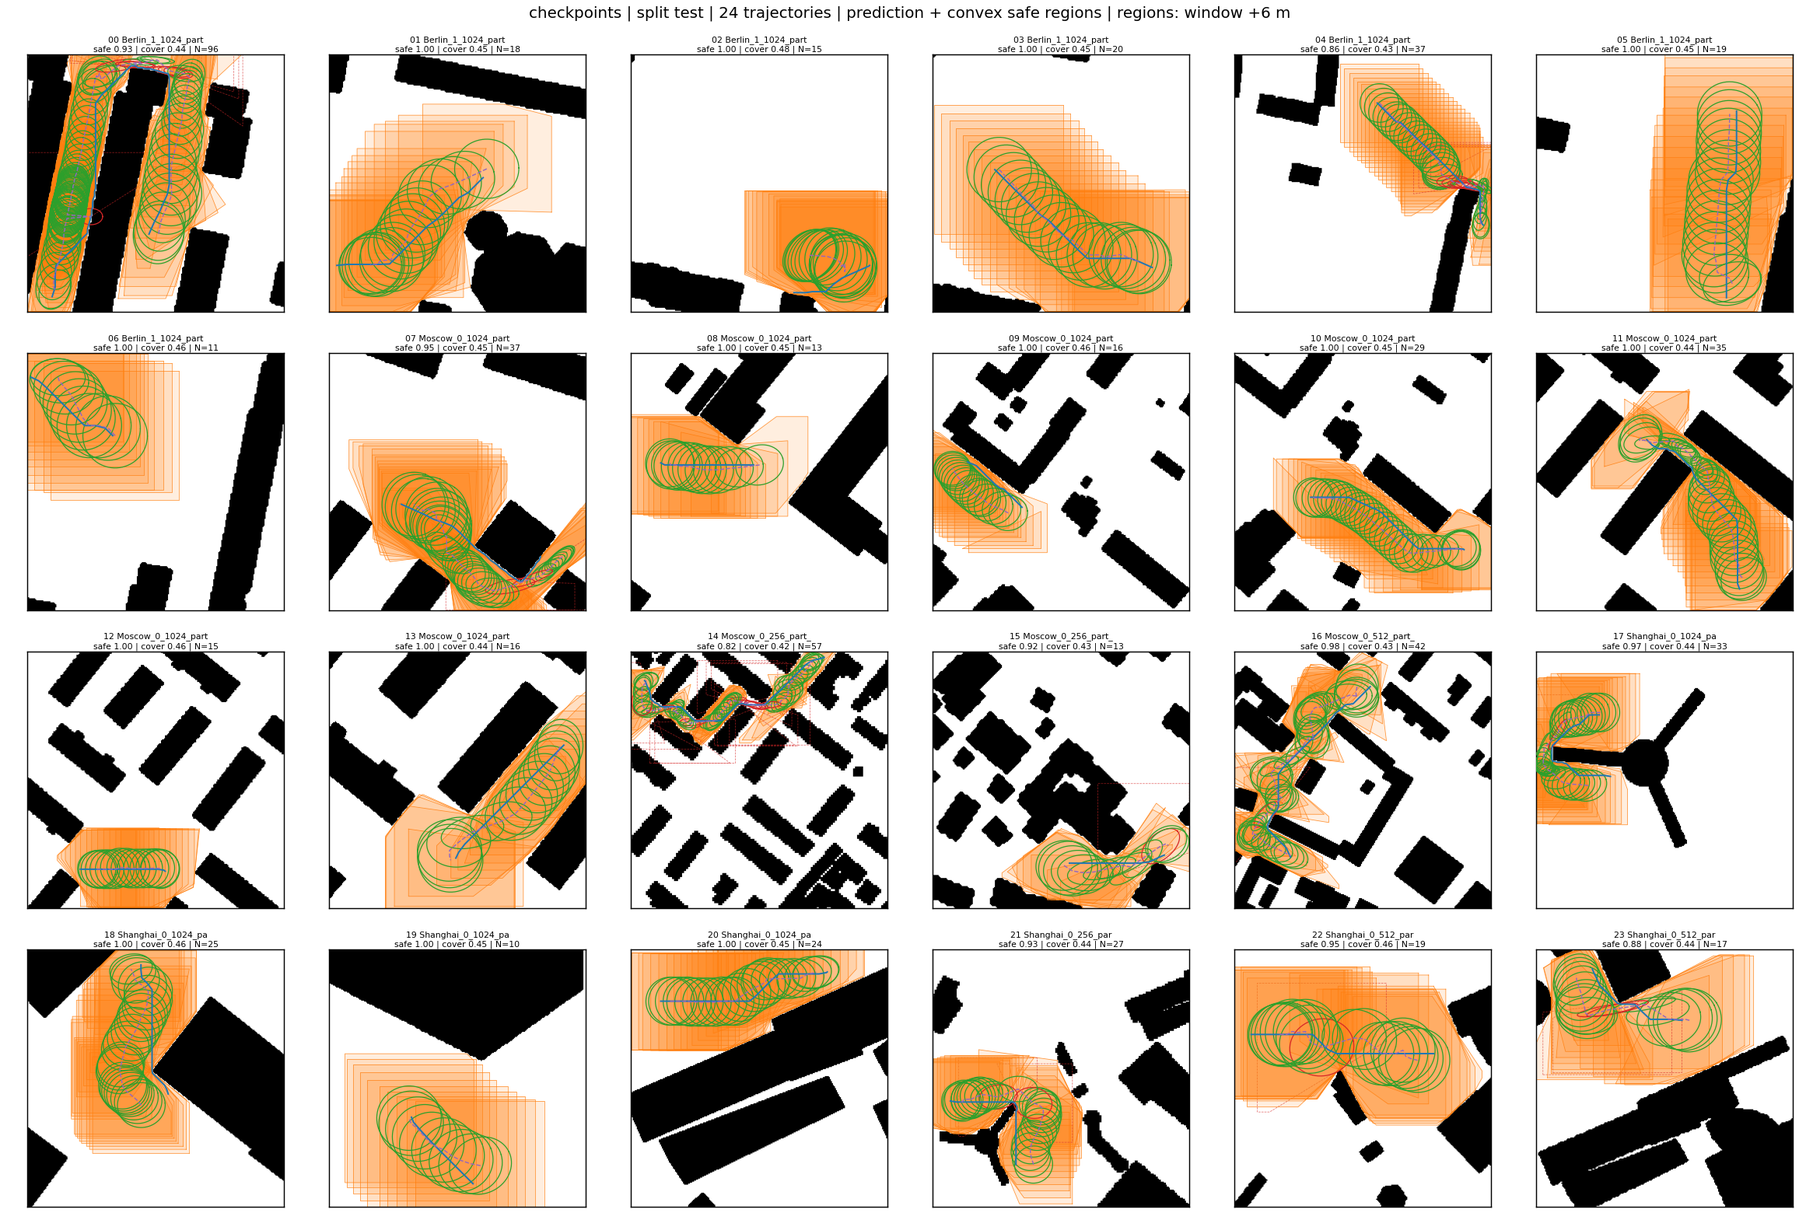
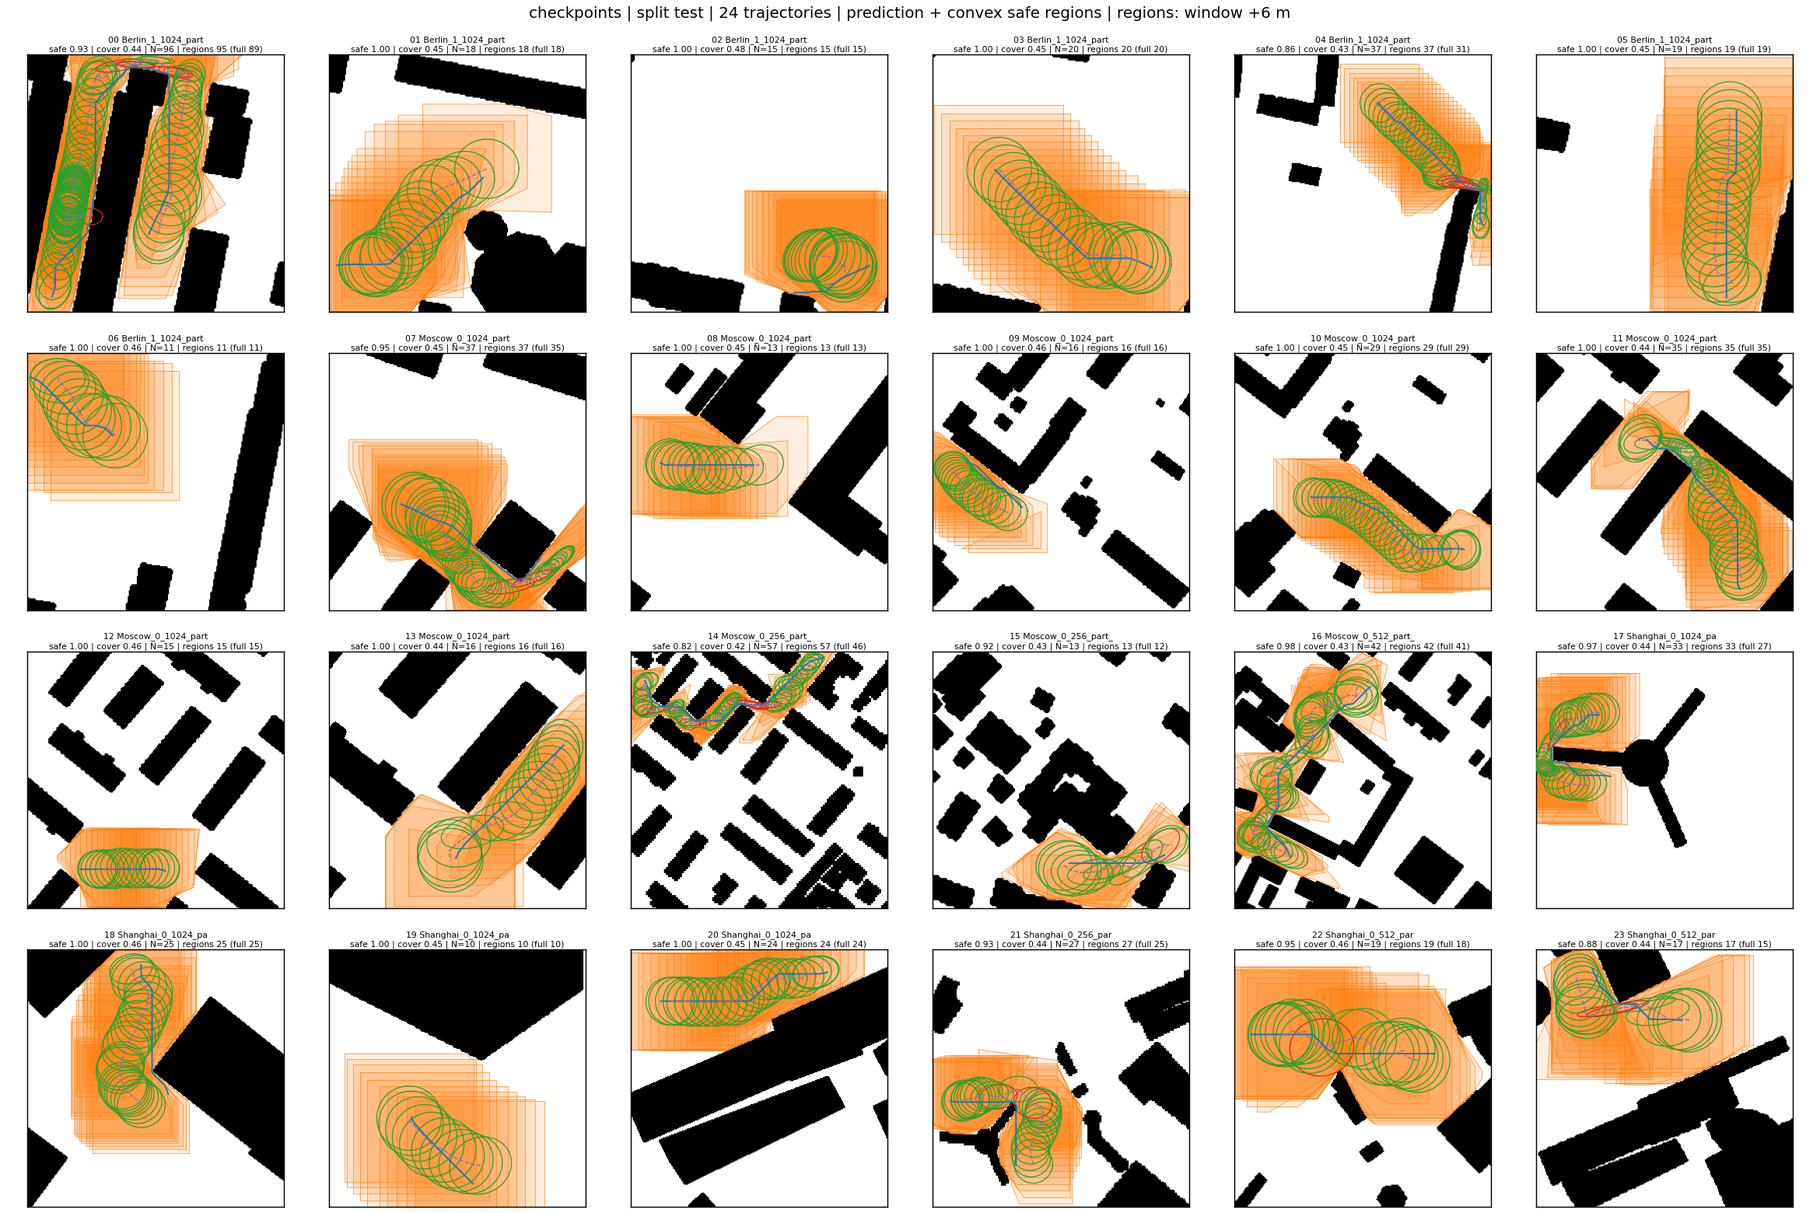
Convex regions: build one for every ellipse, including the ones that collide
Previously an ellipse whose own body crossed an obstacle was abandoned (feasible=False stopped
the loop) because no obstacle-free region can contain it.  That criterion was too strong: what a
planner needs is a region containing the current point, so the loop keeps going and the region
simply ends up tighter, clipped by the obstacle faces.  Only a blocked ellipse centre stops the
construction, which is the genuinely unsolvable case.

Diagnostics split: feasible = the region contains the whole ellipse, centre_ok = the region
contains the centre (allowing the region margin, so a centre 2 cm inside the map border counts).

Measured on 12 trajectories / 302 ellipses: converged 302/302 (was 292), centres covered 302/302,
whole ellipse contained 290/302, regions containing an obstacle 0, 0.35 ms per ellipse
(8.7 ms per trajectory, unchanged).  On the 8-trajectory figure sample the raw violation count
went 28 -> 0, because half-built regions of abandoned ellipses no longer exist.

Visualiser: every ellipse now gets its translucent region; the giant meaningless red dashed
boxes are gone and the title reports "regions n (full m)".  The demo reports centres_covered.
Tests gain the invariant "a colliding ellipse still gets an obstacle-free region anchored on its
centre".  docs/report.md 15.9 records the change and the numbers.

diff --git a/ellipsenet/geometry/polytopes.py b/ellipsenet/geometry/polytopes.py
@@ -50,7 +50,8 @@ class Polytopes:
     n_rounds: torch.Tensor   # (N,)     inflation planes added from the local window
     center: torch.Tensor     # (N, 2)   ellipse centre [m]
     radius: torch.Tensor     # (N,)     semi-major axis [m] (diagnostics)
-    feasible: torch.Tensor   # (N,) bool: no added face cut the ellipse itself
+    feasible: torch.Tensor   # (N,) bool: the region contains the whole ellipse
+    centre_ok: torch.Tensor  # (N,) bool: the region contains the ellipse centre
 
     def planes(self, i: int) -> Tuple[np.ndarray, np.ndarray]:
         k = int(self.n_planes[i])
@@ -397,9 +398,6 @@ def build_polytopes(centres: torch.Tensor, a: torch.Tensor, b: torch.Tensor,
         normal = torch.einsum("nij,ndj->ndi", Q, obs - centres[:, None, :])
         normal = normal / normal.norm(dim=-1, keepdim=True).clamp_min(1e-9)
         offset = cell_face(normal, obs, half) - region_margin_m       # (N,D)
-        cuts = (ellipse_support(Q.unsqueeze(1), centres.unsqueeze(1), normal)
-                > (offset + region_margin_m + 1e-6))
-        feasible = feasible & ~(has & cuts).any(dim=1)
         A[:, 8:8 + D] = torch.where(has[..., None], normal, torch.zeros_like(normal))
         off[:, 8:8 + D] = torch.where(has, offset, torch.full_like(offset, BIG))
         n_planes = torch.full((N,), 8 + D, dtype=torch.long, device=device)
@@ -414,9 +412,18 @@ def build_polytopes(centres: torch.Tensor, a: torch.Tensor, b: torch.Tensor,
     # ---- inflation loop: add the face of the closest obstacle still inside, then drop every
     # obstacle that face already excludes.  The active set is monotonically shrinking and
     # empty means "no obstacle has a corner inside the region", i.e. it IS the verification.
+    #
+    # Every ellipse is processed, including the ones that collide with an obstacle: for those
+    # no region can contain the *whole* ellipse, but a region around its **centre** that
+    # avoids every obstacle always exists (unless the centre itself is blocked), so the
+    # selection keeps going and the result is simply a tighter region.  ``feasible`` at the
+    # end only records whether the ellipse ended up fully contained.
+    blocked_centre = blocked[
+        torch.round(centres[:, 1] / res).long().clamp(0, H - 1),
+        torch.round(centres[:, 0] / res).long().clamp(0, W - 1)] > 0.5
     for _ in range(P if refine else 0):
         active = still_violating() & cand_ok
-        any_bad = active.any(dim=1) & feasible & (n_planes < P)
+        any_bad = active.any(dim=1) & (n_planes < P) & ~blocked_centre
         if not bool(any_bad.any()):
             break
         idx = active.float().argmax(dim=1)                            # closest (metric order)
@@ -424,13 +431,6 @@ def build_polytopes(centres: torch.Tensor, a: torch.Tensor, b: torch.Tensor,
         normal = torch.einsum("nij,nj->ni", Q, obs - centres)
         normal = normal / normal.norm(dim=-1, keepdim=True).clamp_min(1e-9)
         offset = cell_face(normal, obs, half) - region_margin_m
-        # a face that cuts the ellipse means this ellipse (or this margin) is infeasible:
-        # no obstacle-free region can contain it, so stop adding faces for it
-        # infeasible only if the face really cuts the ellipse: compare with the face *before*
-        # the region margin is subtracted, otherwise a merely grazing (but exactly safe)
-        # ellipse is abandoned and keeps leaving obstacle cells unhandled
-        cuts = ellipse_support(Q, centres, normal) > (offset + region_margin_m + 1e-6)
-        feasible = feasible & ~(any_bad & cuts)
         slot = n_planes.clamp_max(P - 1)
         A[ar[any_bad], slot[any_bad]] = normal[any_bad]
         off[ar[any_bad], slot[any_bad]] = offset[any_bad]
@@ -441,9 +441,21 @@ def build_polytopes(centres: torch.Tensor, a: torch.Tensor, b: torch.Tensor,
     converged = ~((still_violating() & cand_ok).any(dim=1)
                   | _vertex_hits(A[:, :P], off, blocked, res))
 
+    # ---- diagnostics computed once at the end (no effect on the construction)
+    S = torch.linalg.inv(Q)
+    quad = torch.einsum("npi,nij,npj->np", A, S, A).clamp_min(0.0)        # (N,P)
+    n_ell = (A * centres[:, None, :]).sum(-1) + torch.sqrt(quad)           # ellipse support
+    n_cen = (A * centres[:, None, :]).sum(-1)                             # value at centre
+    valid = (torch.arange(P, device=device)[None, :] < n_planes[:, None])
+    feasible = ((n_ell <= off + 1e-6) | ~valid).all(dim=1)    # region contains the ellipse
+    # the centre counts as covered when it is inside the face *before* the margin: a centre
+    # 2 cm from the map border is on the border strip the margin deliberately excludes
+    centre_ok = ((n_cen <= off + region_margin_m + 1e-6) | ~valid).all(dim=1)
+
     return Polytopes(A=A, b=off, n_planes=n_planes, converged=converged,
                      n_rounds=(n_planes - 8), center=centres,
-                     radius=torch.maximum(a, b), feasible=feasible)
+                     radius=torch.maximum(a, b), feasible=feasible,
+                     centre_ok=centre_ok)
 
 
 # --------------------------------------------------------------------------- #
@@ -547,7 +559,8 @@ def build_polytopes_serial(centres: np.ndarray, a: np.ndarray, b: np.ndarray,
                      n_rounds=torch.cat([p.n_rounds for p in parts]),
                      center=torch.cat([p.center for p in parts]),
                      radius=torch.cat([p.radius for p in parts]),
-                     feasible=torch.cat([p.feasible for p in parts]))
+                     feasible=torch.cat([p.feasible for p in parts]),
+                     centre_ok=torch.cat([p.centre_ok for p in parts]))
 
 
 

diff --git a/ellipsenet/visualize_grid.py b/ellipsenet/visualize_grid.py
@@ -90,9 +90,14 @@ def collect(model, loader, device, regions: bool = True,
                 "gt_theta": gt_th[i, :n], "gt_valid": gt_v[i, :n],
                 "regions": ([polygon_from_halfspaces(*polys.planes(k)) for k in range(n)]
                             if polys is not None else None),
+                # a region is drawable when it is obstacle free and still anchored on the
+                # ellipse centre; "regions_full" only says it also contains the whole ellipse
                 "regions_ok": (np.logical_and(polys.converged.cpu().numpy(),
-                                               polys.feasible.cpu().numpy())
+                                               polys.centre_ok.cpu().numpy())
                                 if polys is not None else None),
+                "regions_full": (np.logical_and(polys.converged.cpu().numpy(),
+                                                 polys.feasible.cpu().numpy())
+                                  if polys is not None else None),
                 "safe": ex["safe"],
                 "pair_ok": ex["pair_ok"],
                 "pair_cover": ex["pair_cover"],
@@ -117,21 +122,24 @@ def draw_panel(ax, row: Dict[str, object], mode: str, idx: int,
     ax.plot(path[:, 0], path[:, 1], "-", color="tab:blue", lw=1.1, zorder=4)
     if mode == "pred":
         regs = row.get("regions")
+        n_noreg = 0
         if regs:
             for i, poly in enumerate(regs):
+                if not bool(row["regions_ok"][i]):
+                    # the ellipse itself collides, so no obstacle-free convex region exists.
+                    # Drawing the half-built polytope here would be a meaningless giant box;
+                    # mark the ellipse instead and let the title count them.
+                    n_noreg += 1
+                    c = row["center"][i]
+                    ax.plot([c[0]], [c[1]], "x", color="tab:red", ms=2.6, mew=0.6,
+                            zorder=6)
+                    continue
                 if len(poly) < 3:
                     continue
-                ok = bool(row["regions_ok"][i])
-                if ok:
-                    ax.fill(poly[:, 0], poly[:, 1], color="tab:orange", alpha=0.13,
-                            lw=0, zorder=2)
-                    ax.plot(np.r_[poly[:, 0], poly[0, 0]], np.r_[poly[:, 1], poly[0, 1]],
-                            "-", color="tab:orange", lw=0.45, alpha=0.8, zorder=2)
-                else:
-                    # the ellipse itself collides, so no obstacle-free region exists:
-                    # outline only, never fill (a fill here would look like a bug)
-                    ax.plot(np.r_[poly[:, 0], poly[0, 0]], np.r_[poly[:, 1], poly[0, 1]],
-                            "--", color="tab:red", lw=0.4, alpha=0.7, zorder=2)
+                ax.fill(poly[:, 0], poly[:, 1], color="tab:orange", alpha=0.13,
+                        lw=0, zorder=2)
+                ax.plot(np.r_[poly[:, 0], poly[0, 0]], np.r_[poly[:, 1], poly[0, 1]],
+                        "-", color="tab:orange", lw=0.45, alpha=0.8, zorder=2)
         for i in range(row["n_points"]):
             x, y = ellipse_xy(row["center"][i], row["a"][i], row["b"][i], row["theta"][i])
             ax.plot(x, y, "-", lw=0.7,
@@ -141,8 +149,11 @@ def draw_panel(ax, row: Dict[str, object], mode: str, idx: int,
         if titles:
             safe = float(np.mean(row["safe"]))
             cover = np.mean(row["pair_cover"]) if len(row["pair_cover"]) else 0.0
+            nreg = (row["n_points"] - n_noreg) if regs else 0
+            nfull = int(np.sum(row["regions_full"])) if regs else 0
             ax.set_title(f"{idx:02d} {row['scene_id'][:18]}\n"
-                         f"safe {safe:.2f} | cover {cover:.2f} | N={row['n_points']}",
+                         f"safe {safe:.2f} | cover {cover:.2f} | N={row['n_points']}"
+                         + (f" | regions {nreg} (full {nfull})" if regs else ""),
                          fontsize=6.0, pad=2.0)
     else:
         v = row["gt_valid"]
@@ -254,7 +265,8 @@ def main() -> int:
         wr.writerow(["idx", "scene_id", "file", "n_points", "resolution_m",
                      "exact_safe_rate", "collision_rate", "midpoint_continuity",
                      "boundary_cover", "corridor_success", "border_violation",
-                     "area_p50_m2", "p_max_mean", "regions", "regions_ok"])
+                     "area_p50_m2", "p_max_mean", "regions", "regions_ok",
+                     "regions_full"])
         for k, r in enumerate(rows):
             wr.writerow([k, r["scene_id"], r["file"], r["n_points"], f"{r['resolution_m']:.4f}",
                          f"{np.mean(r['safe']):.4f}", f"{1 - np.mean(r['safe']):.4f}",
@@ -264,7 +276,8 @@ def main() -> int:
                          f"{np.median(np.pi * r['a'] * r['b']):.1f}",
                          f"{np.mean(r['prob']):.3f}",
                          len(r["regions"]) if r["regions"] else 0,
-                         int(np.sum(r["regions_ok"])) if r["regions"] else 0])
+                         int(np.sum(r["regions_ok"])) if r["regions"] else 0,
+                         int(np.sum(r["regions_full"])) if r["regions"] else 0])
 
     # summary figure: per-trajectory distributions
     safe = np.array([np.mean(r["safe"]) for r in rows])

diff --git a/scripts/build_convex_regions.py b/scripts/build_convex_regions.py
@@ -130,7 +130,8 @@ def main() -> int:
         # expected to sit inside an obstacle-free region
         viol_feasible_safe = 0
         areas = [polytope_area(*polys.planes(i)) for i in range(len(cen))]
-        # an ellipse that itself collides cannot be contained in an obstacle-free region
+        # every ellipse gets a region; the ones that themselves collide simply end up with a
+        # tighter region (it still contains their centre and no obstacle)
         occ_np = np.asarray(blocked).astype(np.uint8)
         safe_mask = []
         for i in range(len(cen)):
@@ -162,7 +163,8 @@ def main() -> int:
                                 n_planes=torch.tensor([k]), converged=torch.tensor([True]),
                                 n_rounds=torch.tensor([k]), center=polys.center[i:i + 1].cpu(),
                                 radius=polys.radius[i:i + 1].cpu(),
-                                feasible=polys.feasible[i:i + 1].cpu())
+                                feasible=polys.feasible[i:i + 1].cpu(),
+                                centre_ok=polys.centre_ok[i:i + 1].cpu())
             if verify_polytopes(single, dev_blocked.cpu(), res)["violating_regions"] > 0:
                 viol_feasible_safe += 1
             max_overrun = max(max_overrun, overrun)
@@ -189,6 +191,7 @@ def main() -> int:
             "violating_regions": rep["violating_regions"],
             "violating_regions_feasible_safe": viol_feasible_safe,
             "ellipse_inside_when_safe": bool(ell_inside),
+            "centres_covered": bool(polys.centre_ok.all()),
             "ellipse_overrun_max_m": round(max_overrun, 4),
             "n_checked_ellipses": int(n_checked),
             "n_skipped_ellipses": int(len(cen) - n_checked),
@@ -236,6 +239,7 @@ def main() -> int:
         "violating_regions": int(sum(r["violating_regions"] for r in rows)),
         "violating_regions_feasible_safe": int(sum(r["violating_regions_feasible_safe"] for r in rows)),
         "ellipse_inside_all_safe": all(r["ellipse_inside_when_safe"] for r in rows),
+        "centres_covered": all(bool(r["centres_covered"]) for r in rows),
         "ellipse_overrun_max_m": round(max(r["ellipse_overrun_max_m"] for r in rows), 4),
         "ellipse_inside_tolerance": round(2 * args.region_margin, 4),
         "n_checked_ellipses": int(sum(r["n_checked_ellipses"] for r in rows)),

diff --git a/tests/test_polytopes.py b/tests/test_polytopes.py
@@ -1,4 +1,4 @@
-"""Tests for ellipse -> convex polytope inflation (``ellipsenet.geometry.polytopes``).
+"""Tests for ellipse -> convex polytope inflation (``ellipsenet.geometry.polytopes``).
 
     python tests/test_polytopes.py
 
@@ -116,6 +116,24 @@ def main() -> int:
     rep = verify_polytopes(p, m, RES)
     check("wall: no blocked square inside the region", rep["violating_cells"] == 0,
           str(rep))
+
+    # ------------------------------------------- 3b colliding ellipse still gets a region
+    # centre 0.7 m from the wall face at 14.875 m, semi-major 1.0 m -> the ellipse itself
+    # crosses the wall, so no region can contain it; the region must still be anchored on
+    # its centre and stay obstacle free (that is what a planner needs)
+    m = wall_map()
+    c = torch.tensor([[14.2, 12.0]])
+    a = torch.tensor([1.0])
+    bb = torch.tensor([0.6])
+    th = torch.tensor([0.0])
+    p = build_polytopes(c, a, bb, th, m, RES, window_margin_m=6.0)
+    rep = verify_polytopes(p, m, RES)
+    check("colliding ellipse: region is still obstacle free", rep["violating_cells"] == 0.0,
+          str(rep))
+    check("colliding ellipse: region contains its centre", bool(p.centre_ok[0]))
+    check("colliding ellipse: reported as not containing the whole ellipse",
+          not bool(p.feasible[0]))
+    check("colliding ellipse: region converges", bool(p.converged[0]))
 
     # ---------------------------------------------------------------- 3 small room
     m = room_map()

diff --git a/docs/report.md b/docs/report.md
@@ -874,3 +874,32 @@ while (!active.empty()) {
 方向种子默认关闭（`seed_directions=0`）：12 轨迹样本上它把耗时从 8.8 抬到 15.8 ms，只把"原始违规"
 从 10 降到 6（这 6 个仍是自身碰撞的椭圆），不划算；留作可选（配合 `refine=False` 就是"一次性给完
 约束、完全不迭代"的模式）。
+
+### 15.9 每个椭圆都建区域（碰撞椭圆也不例外）
+
+早期版本对"自身压着障碍"的椭圆直接放弃（`feasible=False` 提前停），理由是"任何无障碍凸区域
+都不可能包含它"。这个理由只对"必须完整包含椭圆"成立，而规划器真正要的是**包含当前点**的区域，
+所以改成：
+
+- **每个椭圆都跑完整构造**，唯一提前终止的条件是"中心落在障碍格上"（此时几何上真的无解）；
+- 碰撞椭圆得到的区域会自动变紧（被障碍面切掉一块），但它**仍然包含椭圆中心、且不含任何障碍**；
+- 诊断拆成两个量：`feasible` = 区域是否完整包含椭圆；`centre_ok` = 是否包含椭圆中心。
+
+实测（12 轨迹 / 302 椭圆，默认参数）：
+
+| 指标 | 改成"全部都建"前 | 现在 |
+|---|---|---|
+| 收敛（区域内无任何障碍格） | 292 / 302 | **302 / 302** |
+| 区域包含椭圆中心 | — | **302 / 302** |
+| 区域完整包含椭圆 | 290 / 302 | 290 / 302 |
+| 区域内含障碍格 | 0 | **0** |
+| 耗时 | 0.35–0.39 ms/椭圆 | **0.35 ms/椭圆（8.7 ms/轨迹）** |
+
+另外 8 条轨迹 / 202 椭圆的图样本上：`violating_regions = 0`（此前是 28 个"半成品区域"被当成
+违规统计），`centres_covered = true`。
+
+可视化同步：橙色填充 = 该区域可用（无障碍且含中心），标题里的 `regions n (full m)` 表示
+n 个椭圆都有区域、其中 m 个区域完整包住了椭圆；只有中心都盖不住时才画红叉。
+
+`centre_ok` 的判断允许 2 cm 留边（区域的 `region_margin_m`）：中心离地图边界 2 cm 内的情况属于
+留边刻意排除的边界带，不算未覆盖。

diff --git a/README.md b/README.md
@@ -119,9 +119,10 @@ $PY ellipsenet/train.py --tag conft3 --resume checkpoints/connctl/best.pt --no-e
 Neural-IRIS 的局部 patch 贪心 + 分离超平面，做了三处改动：方格"近端面"平面、闭式精确
 重叠判定、8 方向种子 + 单一精确循环（循环终止条件即验收）。
 
-可视化：`ellipsenet/visualize_grid.py` 默认把每个预测椭圆的凸安全区域画出来（橙色半透明填充
-= 精确收敛且椭圆自身安全；红色虚线轮廓 = 该椭圆自身压着障碍，几何上不存在无障碍凸区域，故不填充）。
-`per_trajectory.csv` 里新增 `regions` / `regions_ok` 两列。
+可视化：`ellipsenet/visualize_grid.py` 默认把**每个**预测椭圆的凸安全区域画出来（橙色半透明
+填充 = 该区域无障碍且包含椭圆中心；自身碰撞的椭圆得到的是被障碍切紧的区域，而不是被跳过）。
+标题里的 `regions n (full m)` = n 个椭圆都有区域、其中 m 个完整包住椭圆；
+`per_trajectory.csv` 里有 `regions` / `regions_ok` / `regions_full` 三列。
 
 ```bash
 $PY tests/test_polytopes.py                          # 10 组不变量（含速度与并行/串行等价安全）
@@ -129,8 +130,9 @@ $PY scripts/build_convex_regions.py --n 8 --seed 5   # 预测→区域→验收+
 ```
 
 实测（RTX 4070）：端到端 **18.0 ms/轨迹（0.71 ms/椭圆）**；同一地图 256 个椭圆一次批量
-**41 µs/椭圆**；CPU 回退 0.35 ms/椭圆；「可行且椭圆自身安全」的区域 **0 违规**（302 与 202
-两个样本）。原始违规区域 6–9 个，全部属于自身碰撞或越出地图的椭圆（几何上无解）。
+**39 µs/椭圆**；CPU 回退 0.10 ms/椭圆；302 与 202 两个样本上区域**全部收敛且 0 违规**，
+每个区域都包含椭圆中心（302/302），其中 290/302 完整包住椭圆（其余 12 个是自身碰撞的椭圆，
+区域被障碍切紧）。
 `window_margin_m` 是区域大小/速度的旋钮。
 
 ## 已知局限
